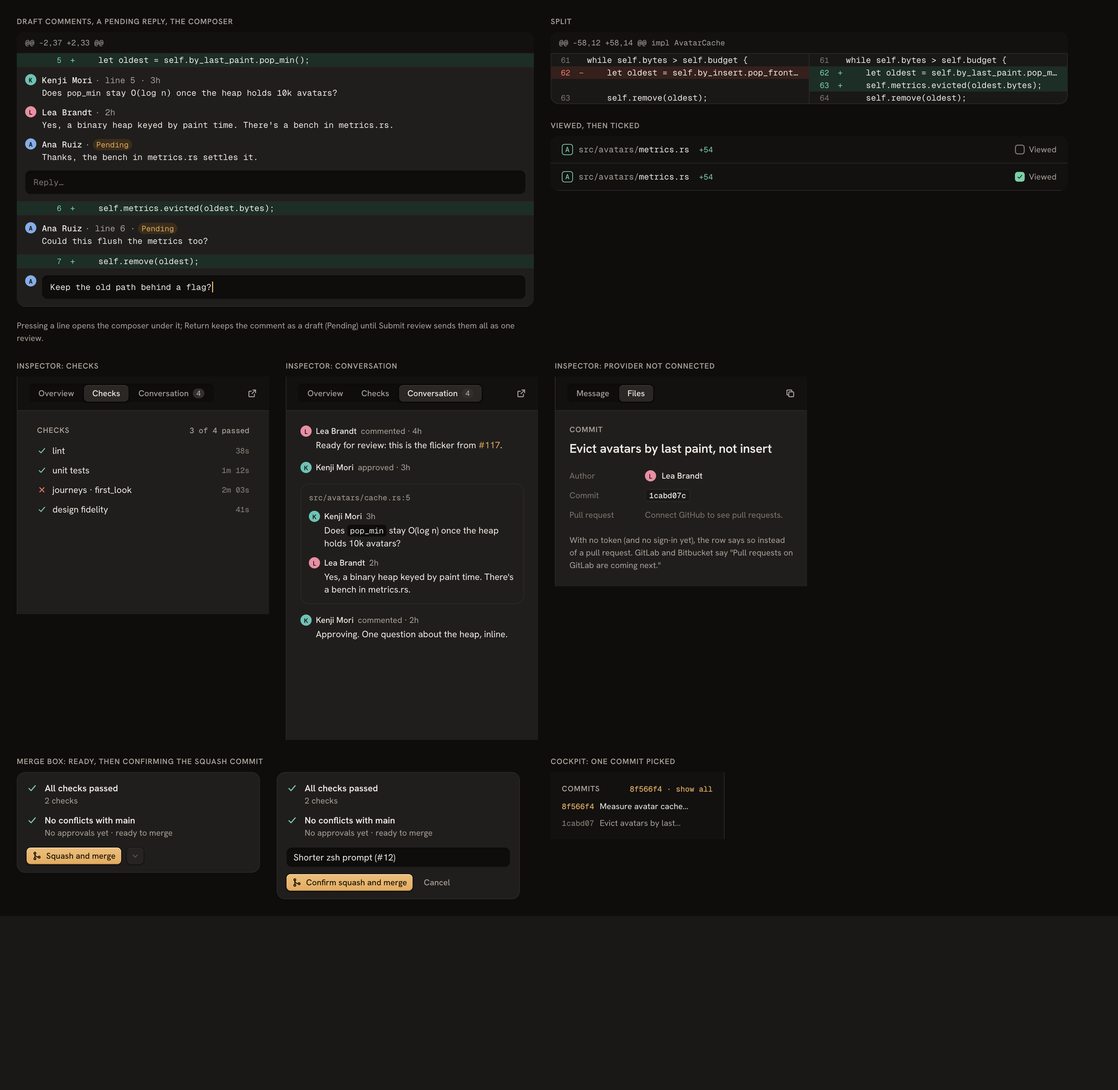
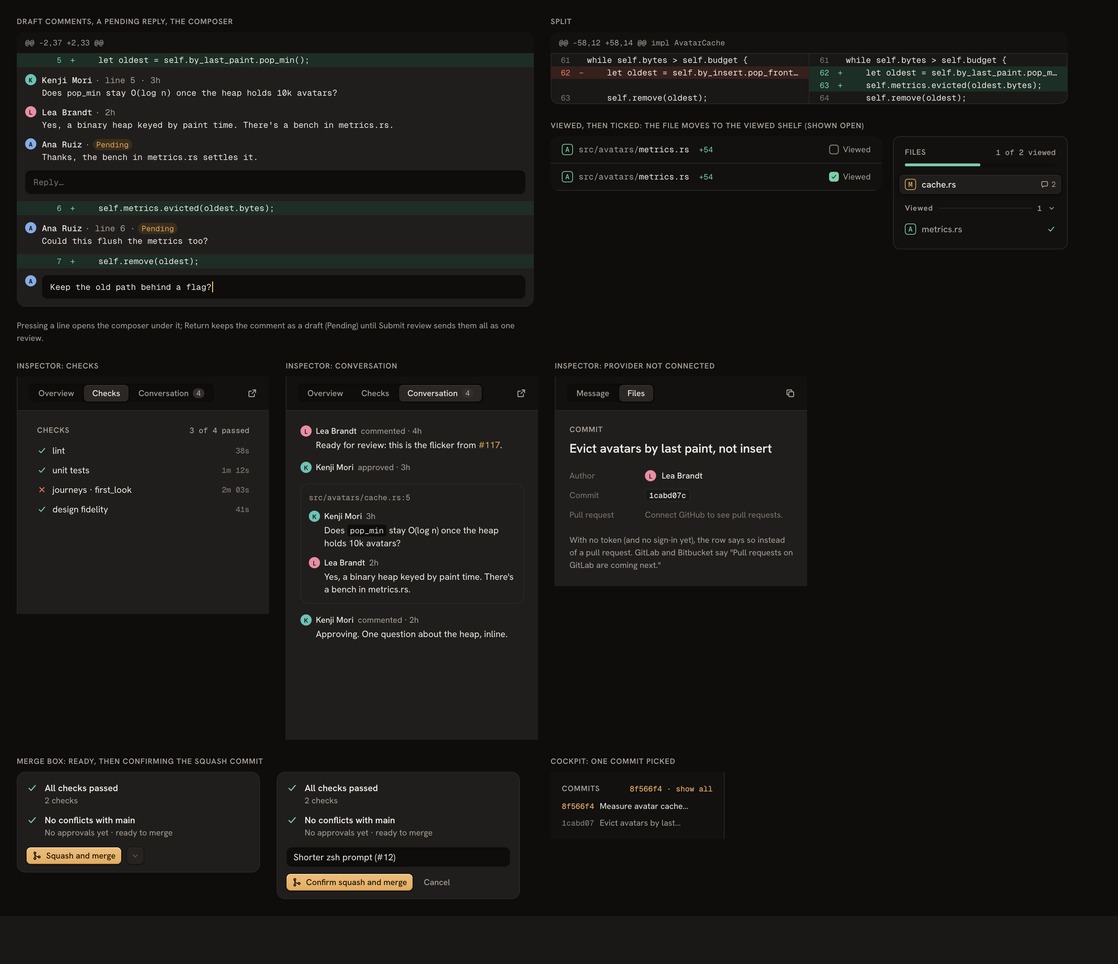
The flow's Viewed state shows the shelf a ticked file goes to

diff --git a/design/pr-flow/extras.html b/design/pr-flow/extras.html
@@ -37,4 +37,4 @@ html,body{margin:0}
 .thread{border-top:1px solid var(--line);padding:10px 12px;background:var(--raised)}
 .note{position:absolute;font-family:var(--font-sans);font-size:12px;line-height:16px;font-weight:600;color:#1c1307;background:#e2ad62;padding:4px 8px;border-radius:6px;box-shadow:0 2px 8px rgba(0,0,0,.4)}
 .dim{opacity:.38}
-</style></head><body><div class="page" data-theme="dark"><div class="row" style="gap:24px;align-items:flex-start;flex-wrap:wrap"><div class="col" style="gap:8px;width:740px"><span class="label">Draft comments, a pending reply, the composer</span><div class="gu-hunk"><div class="gu-hunk-head">@@ -2,37 +2,33 @@</div><div class="gu-hunk-line gu-hunk-add"><span class="gu-hunk-no"></span><span class="gu-hunk-no">5</span><span class="gu-hunk-sign">+</span><span class="gu-hunk-text">    let oldest = self.by_last_paint.pop_min();</span></div><div class="thread" style="margin:0;border-bottom:1px solid var(--line)"><div class="row" style="gap:8px;align-items:flex-start;"><span class="gu-avatar" style="--lane:var(--lane-2);width:16px;height:16px;font-size:9px">K</span><div class="col grow"><span class="row" style="gap:4px;font-size:12px"><b style="font-weight:500">Kenji Mori</b><span class="muted">· line 5 · 3h</span></span><span>Does <code class="mono" style="font-size:11.5px">pop_min</code> stay O(log n) once the heap holds 10k avatars?</span></div></div><div class="row" style="gap:8px;align-items:flex-start;margin-top:10px"><span class="gu-avatar" style="--lane:var(--lane-4);width:16px;height:16px;font-size:9px">L</span><div class="col grow"><span class="row" style="gap:4px;font-size:12px"><b style="font-weight:500">Lea Brandt</b><span class="muted">· 2h</span></span><span>Yes, a binary heap keyed by paint time. There's a bench in metrics.rs.</span></div></div><div class="row" style="gap:8px;align-items:flex-start;margin-top:10px"><span class="gu-avatar" style="--lane:var(--lane-3);width:16px;height:16px;font-size:9px">A</span><div class="col grow"><span class="row" style="gap:4px;font-size:12px"><b style="font-weight:500">Ana Ruiz</b><span class="muted">·</span><span style="font-family:var(--font-mono);font-size:11px;line-height:16px;padding:0 5px;border-radius:999px;background:var(--accent-soft);color:var(--accent)">Pending</span></span><span>Thanks, the bench in metrics.rs settles it.</span></div></div><div class="composer" style="margin-top:10px;min-height:0;padding:8px 12px">Reply…</div></div><div class="gu-hunk-line gu-hunk-add"><span class="gu-hunk-no"></span><span class="gu-hunk-no">6</span><span class="gu-hunk-sign">+</span><span class="gu-hunk-text">    self.metrics.evicted(oldest.bytes);</span></div><div class="thread" style="margin:0;border-bottom:1px solid var(--line)"><div class="row" style="gap:8px;align-items:flex-start;"><span class="gu-avatar" style="--lane:var(--lane-3);width:16px;height:16px;font-size:9px">A</span><div class="col grow"><span class="row" style="gap:4px;font-size:12px"><b style="font-weight:500">Ana Ruiz</b><span class="muted">· line 6 ·</span><span style="font-family:var(--font-mono);font-size:11px;line-height:16px;padding:0 5px;border-radius:999px;background:var(--accent-soft);color:var(--accent)">Pending</span></span><span>Could this flush the metrics too?</span></div></div></div><div class="gu-hunk-line gu-hunk-add"><span class="gu-hunk-no"></span><span class="gu-hunk-no">7</span><span class="gu-hunk-sign">+</span><span class="gu-hunk-text">    self.remove(oldest);</span></div><div class="thread" style="margin:0;border-bottom:1px solid var(--line)"><div class="row" style="gap:8px;align-items:flex-start"><span class="gu-avatar" style="--lane:var(--lane-3);width:16px;height:16px;font-size:9px">A</span><div class="composer grow" style="min-height:0;padding:8px 12px;color:var(--ink)">Keep the old path behind a flag?<span style="border-left:1.5px solid var(--focus);margin-left:1px"></span></div></div></div></div><p class="muted" style="font-size:12px;margin:10px 0 0">Pressing a line opens the composer under it; Return keeps the comment as a draft (Pending) until Submit review sends them all as one review.</p></div><div class="col" style="gap:24px"><div class="col" style="gap:8px;width:740px"><span class="label">Split</span><div class="gu-hunk"><div class="gu-hunk-head">@@ -58,12 +58,14 @@ impl AvatarCache</div><div style="display:flex"><div class="gu-hunk-line" style="grid-template-columns:36px 16px 1fr;flex:1;min-width:0;"><span class="gu-hunk-no">61</span><span class="gu-hunk-sign"> </span><span class="gu-hunk-text">while self.bytes &gt; self.budget {</span></div><div class="gu-hunk-line" style="grid-template-columns:36px 16px 1fr;flex:1;min-width:0;border-left:1px solid var(--line);"><span class="gu-hunk-no">61</span><span class="gu-hunk-sign"> </span><span class="gu-hunk-text">while self.bytes &gt; self.budget {</span></div></div><div style="display:flex"><div class="gu-hunk-line gu-hunk-del" style="grid-template-columns:36px 16px 1fr;flex:1;min-width:0;"><span class="gu-hunk-no">62</span><span class="gu-hunk-sign">−</span><span class="gu-hunk-text">    let oldest = self.by_insert.pop_front();</span></div><div class="gu-hunk-line gu-hunk-add" style="grid-template-columns:36px 16px 1fr;flex:1;min-width:0;border-left:1px solid var(--line);"><span class="gu-hunk-no">62</span><span class="gu-hunk-sign">+</span><span class="gu-hunk-text">    let oldest = self.by_last_paint.pop_min();</span></div></div><div style="display:flex"><div class="gu-hunk-line" style="grid-template-columns:36px 16px 1fr;flex:1;min-width:0;"><span class="gu-hunk-no"></span><span class="gu-hunk-sign"></span><span class="gu-hunk-text"></span></div><div class="gu-hunk-line gu-hunk-add" style="grid-template-columns:36px 16px 1fr;flex:1;min-width:0;border-left:1px solid var(--line);"><span class="gu-hunk-no">63</span><span class="gu-hunk-sign">+</span><span class="gu-hunk-text">    self.metrics.evicted(oldest.bytes);</span></div></div><div style="display:flex"><div class="gu-hunk-line" style="grid-template-columns:36px 16px 1fr;flex:1;min-width:0;"><span class="gu-hunk-no">63</span><span class="gu-hunk-sign"> </span><span class="gu-hunk-text">    self.remove(oldest);</span></div><div class="gu-hunk-line" style="grid-template-columns:36px 16px 1fr;flex:1;min-width:0;border-left:1px solid var(--line);"><span class="gu-hunk-no">64</span><span class="gu-hunk-sign"> </span><span class="gu-hunk-text">    self.remove(oldest);</span></div></div></div></div><div class="col" style="gap:8px;width:740px"><span class="label">Viewed, then ticked</span><div class="cardc" style="overflow:hidden"><div class="row" style="padding:10px 16px;border-bottom:1px solid var(--line);background:var(--chrome)"><span class="gu-status gu-status-A">A</span><span class="mono"><span class="muted">src/avatars/</span>metrics.rs</span><span class="gu-file-stat" style="margin-left:6px"><span class="add">+54</span></span><div class="grow"></div><label class="row muted" style="gap:6px;font-size:12px"><span style="width:14px;height:14px;border-radius:4px;display:grid;place-items:center;box-shadow:inset 0 0 0 1.5px var(--edge)"></span>Viewed</label></div><div class="row" style="padding:10px 16px;border-bottom:1px solid var(--line);background:var(--chrome)"><span class="gu-status gu-status-A">A</span><span class="mono"><span class="muted">src/avatars/</span>metrics.rs</span><span class="gu-file-stat" style="margin-left:6px"><span class="add">+54</span></span><div class="grow"></div><label class="row muted" style="gap:6px;font-size:12px"><span style="width:14px;height:14px;border-radius:4px;display:grid;place-items:center;background:var(--added);color:var(--on-lane)"><svg class="gu-icon" width="10" height="10" viewBox="0 0 16 16" fill="none" stroke="currentColor" stroke-width="1.5" stroke-linecap="round" stroke-linejoin="round" style=""><path d="M3.5 8.5 6.5 11.5 12.5 4.5"/></svg></span>Viewed</label></div></div></div></div><div class="col" style="gap:8px;width:361px"><span class="label">Inspector: Checks</span><aside class="insp" style="height:340px"><div class="bar" style="padding:0 12px 0 16px"><div class="tabs"><span class="tab">Overview</span><span class="tab on">Checks</span><span class="tab">Conversation<span class=count>4</span></span></div><div class="grow"></div><button class="gu-btn gu-btn-ghost gu-btn-sm gu-btn-icononly" ><svg class="gu-icon" width="14" height="14" viewBox="0 0 16 16" fill="none" stroke="currentColor" stroke-width="1.5" stroke-linecap="round" stroke-linejoin="round" style=""><path d="M9 2.5h4.5V7"/><path d="M13.5 2.5 7.5 8.5"/><path d="M11.5 9.5v3a1 1 0 0 1-1 1h-7a1 1 0 0 1-1-1v-7a1 1 0 0 1 1-1h3"/></svg></button></div><div class="col" style="padding:20px"><div class="col" style="gap:2px"><div class="row" style="justify-content:space-between;padding:0 8px 6px"><span class="label">Checks</span><span class="monosm muted">3 of 4 passed</span></div><div class="row" style="height:26px;padding:0 8px"><span class="ok"><svg class="gu-icon" width="14" height="14" viewBox="0 0 16 16" fill="none" stroke="currentColor" stroke-width="1.5" stroke-linecap="round" stroke-linejoin="round" style=""><path d="M3.5 8.5 6.5 11.5 12.5 4.5"/></svg></span><span class="grow">lint</span><span class="monosm faint">38s</span></div><div class="row" style="height:26px;padding:0 8px"><span class="ok"><svg class="gu-icon" width="14" height="14" viewBox="0 0 16 16" fill="none" stroke="currentColor" stroke-width="1.5" stroke-linecap="round" stroke-linejoin="round" style=""><path d="M3.5 8.5 6.5 11.5 12.5 4.5"/></svg></span><span class="grow">unit tests</span><span class="monosm faint">1m 12s</span></div><div class="row" style="height:26px;padding:0 8px"><span class="bad"><svg class="gu-icon" width="14" height="14" viewBox="0 0 16 16" fill="none" stroke="currentColor" stroke-width="1.5" stroke-linecap="round" stroke-linejoin="round" style=""><path d="M4.5 4.5l7 7M11.5 4.5l-7 7"/></svg></span><span class="grow">journeys · first_look</span><span class="monosm faint">2m 03s</span></div><div class="row" style="height:26px;padding:0 8px"><span class="ok"><svg class="gu-icon" width="14" height="14" viewBox="0 0 16 16" fill="none" stroke="currentColor" stroke-width="1.5" stroke-linecap="round" stroke-linejoin="round" style=""><path d="M3.5 8.5 6.5 11.5 12.5 4.5"/></svg></span><span class="grow">design fidelity</span><span class="monosm faint">41s</span></div></div></div></aside></div><div class="col" style="gap:8px;width:361px"><span class="label">Inspector: Conversation</span><aside class="insp" style="height:520px"><div class="bar" style="padding:0 12px 0 16px"><div class="tabs"><span class="tab">Overview</span><span class="tab">Checks</span><span class="tab on">Conversation<span class=count>4</span></span></div><div class="grow"></div><button class="gu-btn gu-btn-ghost gu-btn-sm gu-btn-icononly" ><svg class="gu-icon" width="14" height="14" viewBox="0 0 16 16" fill="none" stroke="currentColor" stroke-width="1.5" stroke-linecap="round" stroke-linejoin="round" style=""><path d="M9 2.5h4.5V7"/><path d="M13.5 2.5 7.5 8.5"/><path d="M11.5 9.5v3a1 1 0 0 1-1 1h-7a1 1 0 0 1-1-1v-7a1 1 0 0 1 1-1h3"/></svg></button></div><div class="col" style="padding:20px;gap:14px"><div class="col" style="gap:2px"><div class="row" style="gap:6px;font-size:12px"><span class="gu-avatar" style="--lane:var(--lane-4);width:16px;height:16px;font-size:9px">L</span><span style="font-weight:500">Lea Brandt</span><span class="muted">commented · 4h</span></div><div style="padding-left:22px">Ready for review: this is the flicker from <span style="color:var(--accent)">#117</span>.</div></div><div class="col" style="gap:2px"><div class="row" style="gap:6px;font-size:12px"><span class="gu-avatar" style="--lane:var(--lane-2);width:16px;height:16px;font-size:9px">K</span><span style="font-weight:500">Kenji Mori</span><span class="muted">approved · 3h</span></div></div><div class="card col" style="padding:12px;gap:10px"><span class="monosm muted" style="font-weight:400">src/avatars/cache.rs:5</span><div class="col" style="gap:2px"><div class="row" style="gap:6px;font-size:12px"><span class="gu-avatar" style="--lane:var(--lane-2);width:16px;height:16px;font-size:9px">K</span><span style="font-weight:500">Kenji Mori</span><span class="muted">3h</span></div><div style="padding-left:22px">Does <code class="mono" style="font-size:11.5px;background:var(--well);padding:1px 4px;border-radius:4px">pop_min</code> stay O(log n) once the heap holds 10k avatars?</div></div><div class="col" style="gap:2px"><div class="row" style="gap:6px;font-size:12px"><span class="gu-avatar" style="--lane:var(--lane-4);width:16px;height:16px;font-size:9px">L</span><span style="font-weight:500">Lea Brandt</span><span class="muted">2h</span></div><div style="padding-left:22px">Yes, a binary heap keyed by paint time. There's a bench in metrics.rs.</div></div></div><div class="col" style="gap:2px"><div class="row" style="gap:6px;font-size:12px"><span class="gu-avatar" style="--lane:var(--lane-2);width:16px;height:16px;font-size:9px">K</span><span style="font-weight:500">Kenji Mori</span><span class="muted">commented · 2h</span></div><div style="padding-left:22px">Approving. One question about the heap, inline.</div></div></div></aside></div><div class="col" style="gap:8px;width:361px"><span class="label">Inspector: provider not connected</span><aside class="insp" style="height:300px"><div class="bar" style="padding:0 12px 0 16px"><div class="tabs"><span class="tab">Message</span><span class="tab on">Files</span></div><div class="grow"></div><button class="gu-btn gu-btn-ghost gu-btn-sm gu-btn-icononly" ><svg class="gu-icon" width="14" height="14" viewBox="0 0 16 16" fill="none" stroke="currentColor" stroke-width="1.5" stroke-linecap="round" stroke-linejoin="round" style=""><rect x="5.5" y="5.5" width="8" height="8" rx="1.5"/><path d="M10.5 5.5v-2a1 1 0 0 0-1-1h-6a1 1 0 0 0-1 1v6a1 1 0 0 0 1 1h2"/></svg></button></div><div class="col" style="padding:20px;gap:18px"><div class="col" style="gap:8px"><span class="label">Commit</span><span class="title">Evict avatars by last paint, not insert</span></div><div class="kv"><span class="k">Author</span><span class="row" style="gap:8px"><span class="gu-avatar" style="--lane:var(--lane-4);width:16px;height:16px;font-size:9px">L</span><span style="font-weight:500">Lea Brandt</span></span><span class="k">Commit</span><span class="row"><span class="chip">1cabd07c</span></span><span class="k">Pull request</span><span class="faint" style="white-space:nowrap;overflow:hidden;text-overflow:ellipsis">Connect GitHub to see pull requests.</span></div><p class="muted" style="margin:0;font-size:12px">With no token (and no sign-in yet), the row says so instead of a pull request. GitLab and Bitbucket say "Pull requests on GitLab are coming next."</p></div></aside></div><div class="col" style="gap:8px;width:740px"><span class="label">Merge box: ready, then confirming the squash commit</span><div class="row" style="gap:24px;align-items:flex-start"><div class="card" style="padding:14px 14px 12px;width:320px"><div class="row" style="gap:10px;align-items:flex-start"><span class="ok" style="margin-top:1px"><svg class="gu-icon" width="16" height="16" viewBox="0 0 16 16" fill="none" stroke="currentColor" stroke-width="1.5" stroke-linecap="round" stroke-linejoin="round" style=""><path d="M3.5 8.5 6.5 11.5 12.5 4.5"/></svg></span><div class="col grow"><span style="font-weight:600">All checks passed</span><span class="muted" style="font-size:12px">2 checks</span></div></div><div class="row" style="gap:10px;align-items:flex-start;margin-top:10px"><span class="ok" style="margin-top:1px"><svg class="gu-icon" width="16" height="16" viewBox="0 0 16 16" fill="none" stroke="currentColor" stroke-width="1.5" stroke-linecap="round" stroke-linejoin="round" style=""><path d="M3.5 8.5 6.5 11.5 12.5 4.5"/></svg></span><div class="col grow"><span style="font-weight:600">No conflicts with main</span><span class="muted" style="font-size:12px">No approvals yet · ready to merge</span></div></div><div class="row" style="margin-top:12px"><button class="gu-btn gu-btn-primary gu-btn-sm" ><svg class="gu-icon" width="14" height="14" viewBox="0 0 16 16" fill="none" stroke="currentColor" stroke-width="1.5" stroke-linecap="round" stroke-linejoin="round" style=""><circle cx="4.5" cy="3.5" r="1.5"/><circle cx="4.5" cy="12.5" r="1.5"/><circle cx="11.5" cy="10" r="1.5"/><path d="M4.5 5v6"/><path d="M4.5 5c0 3 3 5 5.5 5"/></svg><span>Squash and merge</span></button><button class="gu-btn gu-btn-secondary gu-btn-sm gu-btn-icononly" disabled><svg class="gu-icon" width="14" height="14" viewBox="0 0 16 16" fill="none" stroke="currentColor" stroke-width="1.5" stroke-linecap="round" stroke-linejoin="round" style=""><path d="M4.5 6.5 8 10l3.5-3.5"/></svg></button></div></div><div class="card" style="padding:14px 14px 12px;width:320px"><div class="row" style="gap:10px;align-items:flex-start"><span class="ok" style="margin-top:1px"><svg class="gu-icon" width="16" height="16" viewBox="0 0 16 16" fill="none" stroke="currentColor" stroke-width="1.5" stroke-linecap="round" stroke-linejoin="round" style=""><path d="M3.5 8.5 6.5 11.5 12.5 4.5"/></svg></span><div class="col grow"><span style="font-weight:600">All checks passed</span><span class="muted" style="font-size:12px">2 checks</span></div></div><div class="row" style="gap:10px;align-items:flex-start;margin-top:10px"><span class="ok" style="margin-top:1px"><svg class="gu-icon" width="16" height="16" viewBox="0 0 16 16" fill="none" stroke="currentColor" stroke-width="1.5" stroke-linecap="round" stroke-linejoin="round" style=""><path d="M3.5 8.5 6.5 11.5 12.5 4.5"/></svg></span><div class="col grow"><span style="font-weight:600">No conflicts with main</span><span class="muted" style="font-size:12px">No approvals yet · ready to merge</span></div></div><div class="composer" style="margin-top:12px;min-height:0;padding:5px 10px;color:var(--ink)">Shorter zsh prompt (#12)</div><div class="row" style="margin-top:10px"><button class="gu-btn gu-btn-primary gu-btn-sm" ><svg class="gu-icon" width="14" height="14" viewBox="0 0 16 16" fill="none" stroke="currentColor" stroke-width="1.5" stroke-linecap="round" stroke-linejoin="round" style=""><circle cx="4.5" cy="3.5" r="1.5"/><circle cx="4.5" cy="12.5" r="1.5"/><circle cx="11.5" cy="10" r="1.5"/><path d="M4.5 5v6"/><path d="M4.5 5c0 3 3 5 5.5 5"/></svg><span>Confirm squash and merge</span></button><button class="gu-btn gu-btn-ghost gu-btn-sm" ><span>Cancel</span></button></div></div></div></div><div class="col" style="gap:8px;width:248px"><span class="label">Cockpit: one commit picked</span><aside class="side" style="height:auto;padding-bottom:14px"><div class="row" style="padding:16px 16px 8px;justify-content:space-between"><span class="label">Commits</span><span class="monosm" style="color:var(--accent)">8f566f4 · show all</span></div><div class="col" style="padding:0 16px;gap:6px;font-size:12px"><div class="row"><span class="monosm" style="color:var(--accent)">8f566f4</span><span>Measure avatar cache…</span></div><div class="row"><span class="monosm faint">1cabd07</span><span class="muted">Evict avatars by last…</span></div></div></aside></div></div></div></body></html>
+</style></head><body><div class="page" data-theme="dark"><div class="row" style="gap:24px;align-items:flex-start;flex-wrap:wrap"><div class="col" style="gap:8px;width:740px"><span class="label">Draft comments, a pending reply, the composer</span><div class="gu-hunk"><div class="gu-hunk-head">@@ -2,37 +2,33 @@</div><div class="gu-hunk-line gu-hunk-add"><span class="gu-hunk-no"></span><span class="gu-hunk-no">5</span><span class="gu-hunk-sign">+</span><span class="gu-hunk-text">    let oldest = self.by_last_paint.pop_min();</span></div><div class="thread" style="margin:0;border-bottom:1px solid var(--line)"><div class="row" style="gap:8px;align-items:flex-start;"><span class="gu-avatar" style="--lane:var(--lane-2);width:16px;height:16px;font-size:9px">K</span><div class="col grow"><span class="row" style="gap:4px;font-size:12px"><b style="font-weight:500">Kenji Mori</b><span class="muted">· line 5 · 3h</span></span><span>Does <code class="mono" style="font-size:11.5px">pop_min</code> stay O(log n) once the heap holds 10k avatars?</span></div></div><div class="row" style="gap:8px;align-items:flex-start;margin-top:10px"><span class="gu-avatar" style="--lane:var(--lane-4);width:16px;height:16px;font-size:9px">L</span><div class="col grow"><span class="row" style="gap:4px;font-size:12px"><b style="font-weight:500">Lea Brandt</b><span class="muted">· 2h</span></span><span>Yes, a binary heap keyed by paint time. There's a bench in metrics.rs.</span></div></div><div class="row" style="gap:8px;align-items:flex-start;margin-top:10px"><span class="gu-avatar" style="--lane:var(--lane-3);width:16px;height:16px;font-size:9px">A</span><div class="col grow"><span class="row" style="gap:4px;font-size:12px"><b style="font-weight:500">Ana Ruiz</b><span class="muted">·</span><span style="font-family:var(--font-mono);font-size:11px;line-height:16px;padding:0 5px;border-radius:999px;background:var(--accent-soft);color:var(--accent)">Pending</span></span><span>Thanks, the bench in metrics.rs settles it.</span></div></div><div class="composer" style="margin-top:10px;min-height:0;padding:8px 12px">Reply…</div></div><div class="gu-hunk-line gu-hunk-add"><span class="gu-hunk-no"></span><span class="gu-hunk-no">6</span><span class="gu-hunk-sign">+</span><span class="gu-hunk-text">    self.metrics.evicted(oldest.bytes);</span></div><div class="thread" style="margin:0;border-bottom:1px solid var(--line)"><div class="row" style="gap:8px;align-items:flex-start;"><span class="gu-avatar" style="--lane:var(--lane-3);width:16px;height:16px;font-size:9px">A</span><div class="col grow"><span class="row" style="gap:4px;font-size:12px"><b style="font-weight:500">Ana Ruiz</b><span class="muted">· line 6 ·</span><span style="font-family:var(--font-mono);font-size:11px;line-height:16px;padding:0 5px;border-radius:999px;background:var(--accent-soft);color:var(--accent)">Pending</span></span><span>Could this flush the metrics too?</span></div></div></div><div class="gu-hunk-line gu-hunk-add"><span class="gu-hunk-no"></span><span class="gu-hunk-no">7</span><span class="gu-hunk-sign">+</span><span class="gu-hunk-text">    self.remove(oldest);</span></div><div class="thread" style="margin:0;border-bottom:1px solid var(--line)"><div class="row" style="gap:8px;align-items:flex-start"><span class="gu-avatar" style="--lane:var(--lane-3);width:16px;height:16px;font-size:9px">A</span><div class="composer grow" style="min-height:0;padding:8px 12px;color:var(--ink)">Keep the old path behind a flag?<span style="border-left:1.5px solid var(--focus);margin-left:1px"></span></div></div></div></div><p class="muted" style="font-size:12px;margin:10px 0 0">Pressing a line opens the composer under it; Return keeps the comment as a draft (Pending) until Submit review sends them all as one review.</p></div><div class="col" style="gap:24px"><div class="col" style="gap:8px;width:740px"><span class="label">Split</span><div class="gu-hunk"><div class="gu-hunk-head">@@ -58,12 +58,14 @@ impl AvatarCache</div><div style="display:flex"><div class="gu-hunk-line" style="grid-template-columns:36px 16px 1fr;flex:1;min-width:0;"><span class="gu-hunk-no">61</span><span class="gu-hunk-sign"> </span><span class="gu-hunk-text">while self.bytes &gt; self.budget {</span></div><div class="gu-hunk-line" style="grid-template-columns:36px 16px 1fr;flex:1;min-width:0;border-left:1px solid var(--line);"><span class="gu-hunk-no">61</span><span class="gu-hunk-sign"> </span><span class="gu-hunk-text">while self.bytes &gt; self.budget {</span></div></div><div style="display:flex"><div class="gu-hunk-line gu-hunk-del" style="grid-template-columns:36px 16px 1fr;flex:1;min-width:0;"><span class="gu-hunk-no">62</span><span class="gu-hunk-sign">−</span><span class="gu-hunk-text">    let oldest = self.by_insert.pop_front();</span></div><div class="gu-hunk-line gu-hunk-add" style="grid-template-columns:36px 16px 1fr;flex:1;min-width:0;border-left:1px solid var(--line);"><span class="gu-hunk-no">62</span><span class="gu-hunk-sign">+</span><span class="gu-hunk-text">    let oldest = self.by_last_paint.pop_min();</span></div></div><div style="display:flex"><div class="gu-hunk-line" style="grid-template-columns:36px 16px 1fr;flex:1;min-width:0;"><span class="gu-hunk-no"></span><span class="gu-hunk-sign"></span><span class="gu-hunk-text"></span></div><div class="gu-hunk-line gu-hunk-add" style="grid-template-columns:36px 16px 1fr;flex:1;min-width:0;border-left:1px solid var(--line);"><span class="gu-hunk-no">63</span><span class="gu-hunk-sign">+</span><span class="gu-hunk-text">    self.metrics.evicted(oldest.bytes);</span></div></div><div style="display:flex"><div class="gu-hunk-line" style="grid-template-columns:36px 16px 1fr;flex:1;min-width:0;"><span class="gu-hunk-no">63</span><span class="gu-hunk-sign"> </span><span class="gu-hunk-text">    self.remove(oldest);</span></div><div class="gu-hunk-line" style="grid-template-columns:36px 16px 1fr;flex:1;min-width:0;border-left:1px solid var(--line);"><span class="gu-hunk-no">64</span><span class="gu-hunk-sign"> </span><span class="gu-hunk-text">    self.remove(oldest);</span></div></div></div></div><div class="col" style="gap:8px;width:740px"><span class="label">Viewed, then ticked: the file moves to the Viewed shelf (shown open)</span><div class="row" style="gap:16px;align-items:flex-start"><div class="cardc grow" style="overflow:hidden"><div class="row" style="padding:10px 16px;border-bottom:1px solid var(--line);background:var(--chrome)"><span class="gu-status gu-status-A">A</span><span class="mono"><span class="muted">src/avatars/</span>metrics.rs</span><span class="gu-file-stat" style="margin-left:6px"><span class="add">+54</span></span><div class="grow"></div><label class="row muted" style="gap:6px;font-size:12px"><span style="width:14px;height:14px;border-radius:4px;display:grid;place-items:center;box-shadow:inset 0 0 0 1.5px var(--edge)"></span>Viewed</label></div><div class="row" style="padding:10px 16px;border-bottom:1px solid var(--line);background:var(--chrome)"><span class="gu-status gu-status-A">A</span><span class="mono"><span class="muted">src/avatars/</span>metrics.rs</span><span class="gu-file-stat" style="margin-left:6px"><span class="add">+54</span></span><div class="grow"></div><label class="row muted" style="gap:6px;font-size:12px"><span style="width:14px;height:14px;border-radius:4px;display:grid;place-items:center;background:var(--added);color:var(--on-lane)"><svg class="gu-icon" width="10" height="10" viewBox="0 0 16 16" fill="none" stroke="currentColor" stroke-width="1.5" stroke-linecap="round" stroke-linejoin="round" style=""><path d="M3.5 8.5 6.5 11.5 12.5 4.5"/></svg></span>Viewed</label></div></div><aside class="side" style="height:auto;width:248px;padding:14px 0;border:1px solid var(--line);border-radius:10px"><div class="row" style="padding:0 16px 8px;justify-content:space-between"><span class="label">Files</span><span class="monosm muted">1 of 2 viewed</span></div><div style="padding:0 16px 12px"><div style="height:4px;border-radius:2px;background:var(--well)"><div style="width:50%;height:4px;border-radius:2px;background:var(--added)"></div></div></div><div class="col" style="padding:0 8px"><div class="gu-file" aria-selected="true"><span class="gu-status gu-status-M">M</span><span class="gu-file-path"><span class="gu-file-name">cache.rs</span></span><span class="row muted" style="gap:4px;font-size:11px"><svg class="gu-icon" width="12" height="12" viewBox="0 0 16 16" fill="none" stroke="currentColor" stroke-width="1.5" stroke-linecap="round" stroke-linejoin="round" style=""><path d="M2.5 4a1.5 1.5 0 0 1 1.5-1.5h8A1.5 1.5 0 0 1 13.5 4v5.5A1.5 1.5 0 0 1 12 11H7l-3 2.5V11a1.5 1.5 0 0 1-1.5-1.5z"/></svg>2</span></div></div><div class="row muted" style="margin:4px 8px 0;height:32px;padding:0 8px;gap:8px;border-radius:6px"><span style="font-size:11px;font-weight:600;letter-spacing:.06em">Viewed</span><span style="flex:1;height:1px;background:var(--line)"></span><span class="monosm">1</span><svg class="gu-icon" width="12" height="12" viewBox="0 0 16 16" fill="none" stroke="currentColor" stroke-width="1.5" stroke-linecap="round" stroke-linejoin="round" style=""><path d="M4.5 6.5 8 10l3.5-3.5"/></svg></div><div class="col" style="padding:0 8px"><div class="gu-file" aria-selected="false"><span class="gu-status gu-status-A">A</span><span class="gu-file-path"><span class="gu-file-name" style="color:var(--ink-muted)">metrics.rs</span></span><span class="ok"><svg class="gu-icon" width="13" height="13" viewBox="0 0 16 16" fill="none" stroke="currentColor" stroke-width="1.5" stroke-linecap="round" stroke-linejoin="round" style=""><path d="M3.5 8.5 6.5 11.5 12.5 4.5"/></svg></span></div></div></aside></div></div></div><div class="col" style="gap:8px;width:361px"><span class="label">Inspector: Checks</span><aside class="insp" style="height:340px"><div class="bar" style="padding:0 12px 0 16px"><div class="tabs"><span class="tab">Overview</span><span class="tab on">Checks</span><span class="tab">Conversation<span class=count>4</span></span></div><div class="grow"></div><button class="gu-btn gu-btn-ghost gu-btn-sm gu-btn-icononly" ><svg class="gu-icon" width="14" height="14" viewBox="0 0 16 16" fill="none" stroke="currentColor" stroke-width="1.5" stroke-linecap="round" stroke-linejoin="round" style=""><path d="M9 2.5h4.5V7"/><path d="M13.5 2.5 7.5 8.5"/><path d="M11.5 9.5v3a1 1 0 0 1-1 1h-7a1 1 0 0 1-1-1v-7a1 1 0 0 1 1-1h3"/></svg></button></div><div class="col" style="padding:20px"><div class="col" style="gap:2px"><div class="row" style="justify-content:space-between;padding:0 8px 6px"><span class="label">Checks</span><span class="monosm muted">3 of 4 passed</span></div><div class="row" style="height:26px;padding:0 8px"><span class="ok"><svg class="gu-icon" width="14" height="14" viewBox="0 0 16 16" fill="none" stroke="currentColor" stroke-width="1.5" stroke-linecap="round" stroke-linejoin="round" style=""><path d="M3.5 8.5 6.5 11.5 12.5 4.5"/></svg></span><span class="grow">lint</span><span class="monosm faint">38s</span></div><div class="row" style="height:26px;padding:0 8px"><span class="ok"><svg class="gu-icon" width="14" height="14" viewBox="0 0 16 16" fill="none" stroke="currentColor" stroke-width="1.5" stroke-linecap="round" stroke-linejoin="round" style=""><path d="M3.5 8.5 6.5 11.5 12.5 4.5"/></svg></span><span class="grow">unit tests</span><span class="monosm faint">1m 12s</span></div><div class="row" style="height:26px;padding:0 8px"><span class="bad"><svg class="gu-icon" width="14" height="14" viewBox="0 0 16 16" fill="none" stroke="currentColor" stroke-width="1.5" stroke-linecap="round" stroke-linejoin="round" style=""><path d="M4.5 4.5l7 7M11.5 4.5l-7 7"/></svg></span><span class="grow">journeys · first_look</span><span class="monosm faint">2m 03s</span></div><div class="row" style="height:26px;padding:0 8px"><span class="ok"><svg class="gu-icon" width="14" height="14" viewBox="0 0 16 16" fill="none" stroke="currentColor" stroke-width="1.5" stroke-linecap="round" stroke-linejoin="round" style=""><path d="M3.5 8.5 6.5 11.5 12.5 4.5"/></svg></span><span class="grow">design fidelity</span><span class="monosm faint">41s</span></div></div></div></aside></div><div class="col" style="gap:8px;width:361px"><span class="label">Inspector: Conversation</span><aside class="insp" style="height:520px"><div class="bar" style="padding:0 12px 0 16px"><div class="tabs"><span class="tab">Overview</span><span class="tab">Checks</span><span class="tab on">Conversation<span class=count>4</span></span></div><div class="grow"></div><button class="gu-btn gu-btn-ghost gu-btn-sm gu-btn-icononly" ><svg class="gu-icon" width="14" height="14" viewBox="0 0 16 16" fill="none" stroke="currentColor" stroke-width="1.5" stroke-linecap="round" stroke-linejoin="round" style=""><path d="M9 2.5h4.5V7"/><path d="M13.5 2.5 7.5 8.5"/><path d="M11.5 9.5v3a1 1 0 0 1-1 1h-7a1 1 0 0 1-1-1v-7a1 1 0 0 1 1-1h3"/></svg></button></div><div class="col" style="padding:20px;gap:14px"><div class="col" style="gap:2px"><div class="row" style="gap:6px;font-size:12px"><span class="gu-avatar" style="--lane:var(--lane-4);width:16px;height:16px;font-size:9px">L</span><span style="font-weight:500">Lea Brandt</span><span class="muted">commented · 4h</span></div><div style="padding-left:22px">Ready for review: this is the flicker from <span style="color:var(--accent)">#117</span>.</div></div><div class="col" style="gap:2px"><div class="row" style="gap:6px;font-size:12px"><span class="gu-avatar" style="--lane:var(--lane-2);width:16px;height:16px;font-size:9px">K</span><span style="font-weight:500">Kenji Mori</span><span class="muted">approved · 3h</span></div></div><div class="card col" style="padding:12px;gap:10px"><span class="monosm muted" style="font-weight:400">src/avatars/cache.rs:5</span><div class="col" style="gap:2px"><div class="row" style="gap:6px;font-size:12px"><span class="gu-avatar" style="--lane:var(--lane-2);width:16px;height:16px;font-size:9px">K</span><span style="font-weight:500">Kenji Mori</span><span class="muted">3h</span></div><div style="padding-left:22px">Does <code class="mono" style="font-size:11.5px;background:var(--well);padding:1px 4px;border-radius:4px">pop_min</code> stay O(log n) once the heap holds 10k avatars?</div></div><div class="col" style="gap:2px"><div class="row" style="gap:6px;font-size:12px"><span class="gu-avatar" style="--lane:var(--lane-4);width:16px;height:16px;font-size:9px">L</span><span style="font-weight:500">Lea Brandt</span><span class="muted">2h</span></div><div style="padding-left:22px">Yes, a binary heap keyed by paint time. There's a bench in metrics.rs.</div></div></div><div class="col" style="gap:2px"><div class="row" style="gap:6px;font-size:12px"><span class="gu-avatar" style="--lane:var(--lane-2);width:16px;height:16px;font-size:9px">K</span><span style="font-weight:500">Kenji Mori</span><span class="muted">commented · 2h</span></div><div style="padding-left:22px">Approving. One question about the heap, inline.</div></div></div></aside></div><div class="col" style="gap:8px;width:361px"><span class="label">Inspector: provider not connected</span><aside class="insp" style="height:300px"><div class="bar" style="padding:0 12px 0 16px"><div class="tabs"><span class="tab">Message</span><span class="tab on">Files</span></div><div class="grow"></div><button class="gu-btn gu-btn-ghost gu-btn-sm gu-btn-icononly" ><svg class="gu-icon" width="14" height="14" viewBox="0 0 16 16" fill="none" stroke="currentColor" stroke-width="1.5" stroke-linecap="round" stroke-linejoin="round" style=""><rect x="5.5" y="5.5" width="8" height="8" rx="1.5"/><path d="M10.5 5.5v-2a1 1 0 0 0-1-1h-6a1 1 0 0 0-1 1v6a1 1 0 0 0 1 1h2"/></svg></button></div><div class="col" style="padding:20px;gap:18px"><div class="col" style="gap:8px"><span class="label">Commit</span><span class="title">Evict avatars by last paint, not insert</span></div><div class="kv"><span class="k">Author</span><span class="row" style="gap:8px"><span class="gu-avatar" style="--lane:var(--lane-4);width:16px;height:16px;font-size:9px">L</span><span style="font-weight:500">Lea Brandt</span></span><span class="k">Commit</span><span class="row"><span class="chip">1cabd07c</span></span><span class="k">Pull request</span><span class="faint" style="white-space:nowrap;overflow:hidden;text-overflow:ellipsis">Connect GitHub to see pull requests.</span></div><p class="muted" style="margin:0;font-size:12px">With no token (and no sign-in yet), the row says so instead of a pull request. GitLab and Bitbucket say "Pull requests on GitLab are coming next."</p></div></aside></div><div class="col" style="gap:8px;width:740px"><span class="label">Merge box: ready, then confirming the squash commit</span><div class="row" style="gap:24px;align-items:flex-start"><div class="card" style="padding:14px 14px 12px;width:320px"><div class="row" style="gap:10px;align-items:flex-start"><span class="ok" style="margin-top:1px"><svg class="gu-icon" width="16" height="16" viewBox="0 0 16 16" fill="none" stroke="currentColor" stroke-width="1.5" stroke-linecap="round" stroke-linejoin="round" style=""><path d="M3.5 8.5 6.5 11.5 12.5 4.5"/></svg></span><div class="col grow"><span style="font-weight:600">All checks passed</span><span class="muted" style="font-size:12px">2 checks</span></div></div><div class="row" style="gap:10px;align-items:flex-start;margin-top:10px"><span class="ok" style="margin-top:1px"><svg class="gu-icon" width="16" height="16" viewBox="0 0 16 16" fill="none" stroke="currentColor" stroke-width="1.5" stroke-linecap="round" stroke-linejoin="round" style=""><path d="M3.5 8.5 6.5 11.5 12.5 4.5"/></svg></span><div class="col grow"><span style="font-weight:600">No conflicts with main</span><span class="muted" style="font-size:12px">No approvals yet · ready to merge</span></div></div><div class="row" style="margin-top:12px"><button class="gu-btn gu-btn-primary gu-btn-sm" ><svg class="gu-icon" width="14" height="14" viewBox="0 0 16 16" fill="none" stroke="currentColor" stroke-width="1.5" stroke-linecap="round" stroke-linejoin="round" style=""><circle cx="4.5" cy="3.5" r="1.5"/><circle cx="4.5" cy="12.5" r="1.5"/><circle cx="11.5" cy="10" r="1.5"/><path d="M4.5 5v6"/><path d="M4.5 5c0 3 3 5 5.5 5"/></svg><span>Squash and merge</span></button><button class="gu-btn gu-btn-secondary gu-btn-sm gu-btn-icononly" disabled><svg class="gu-icon" width="14" height="14" viewBox="0 0 16 16" fill="none" stroke="currentColor" stroke-width="1.5" stroke-linecap="round" stroke-linejoin="round" style=""><path d="M4.5 6.5 8 10l3.5-3.5"/></svg></button></div></div><div class="card" style="padding:14px 14px 12px;width:320px"><div class="row" style="gap:10px;align-items:flex-start"><span class="ok" style="margin-top:1px"><svg class="gu-icon" width="16" height="16" viewBox="0 0 16 16" fill="none" stroke="currentColor" stroke-width="1.5" stroke-linecap="round" stroke-linejoin="round" style=""><path d="M3.5 8.5 6.5 11.5 12.5 4.5"/></svg></span><div class="col grow"><span style="font-weight:600">All checks passed</span><span class="muted" style="font-size:12px">2 checks</span></div></div><div class="row" style="gap:10px;align-items:flex-start;margin-top:10px"><span class="ok" style="margin-top:1px"><svg class="gu-icon" width="16" height="16" viewBox="0 0 16 16" fill="none" stroke="currentColor" stroke-width="1.5" stroke-linecap="round" stroke-linejoin="round" style=""><path d="M3.5 8.5 6.5 11.5 12.5 4.5"/></svg></span><div class="col grow"><span style="font-weight:600">No conflicts with main</span><span class="muted" style="font-size:12px">No approvals yet · ready to merge</span></div></div><div class="composer" style="margin-top:12px;min-height:0;padding:5px 10px;color:var(--ink)">Shorter zsh prompt (#12)</div><div class="row" style="margin-top:10px"><button class="gu-btn gu-btn-primary gu-btn-sm" ><svg class="gu-icon" width="14" height="14" viewBox="0 0 16 16" fill="none" stroke="currentColor" stroke-width="1.5" stroke-linecap="round" stroke-linejoin="round" style=""><circle cx="4.5" cy="3.5" r="1.5"/><circle cx="4.5" cy="12.5" r="1.5"/><circle cx="11.5" cy="10" r="1.5"/><path d="M4.5 5v6"/><path d="M4.5 5c0 3 3 5 5.5 5"/></svg><span>Confirm squash and merge</span></button><button class="gu-btn gu-btn-ghost gu-btn-sm" ><span>Cancel</span></button></div></div></div></div><div class="col" style="gap:8px;width:248px"><span class="label">Cockpit: one commit picked</span><aside class="side" style="height:auto;padding-bottom:14px"><div class="row" style="padding:16px 16px 8px;justify-content:space-between"><span class="label">Commits</span><span class="monosm" style="color:var(--accent)">8f566f4 · show all</span></div><div class="col" style="padding:0 16px;gap:6px;font-size:12px"><div class="row"><span class="monosm" style="color:var(--accent)">8f566f4</span><span>Measure avatar cache…</span></div><div class="row"><span class="monosm faint">1cabd07</span><span class="muted">Evict avatars by last…</span></div></div></aside></div></div></div></body></html>

diff --git a/design/pr-flow/extras.py b/design/pr-flow/extras.py
@@ -1,5 +1,5 @@
 """States the C + B flow needs that its frames don't draw, in the same parts: drafts in the
-review cockpit, Split, Viewed ticked, the inspector's Checks and Conversation tabs, and a
+review cockpit, Split, Viewed ticked (and the shelf it goes to), the inspector's Checks and Conversation tabs, and a
 repository whose provider isn't connected. Proposed 2026-11-14 with the first build; they need
 the person's sign-off. Run `python3 extras.py` here."""
 from pages import *
@@ -49,7 +49,20 @@ def viewed_panel():
     head = lambda on: (f'<div class="row" style="padding:10px 16px;border-bottom:1px solid var(--line);background:var(--chrome)"><span class="gu-status gu-status-A">A</span>'
                        f'<span class="mono"><span class="muted">src/avatars/</span>metrics.rs</span><span class="gu-file-stat" style="margin-left:6px"><span class="add">+54</span></span>'
                        f'<div class="grow"></div><label class="row muted" style="gap:6px;font-size:12px">{box(on)}Viewed</label></div>')
-    return f'<div class="cardc" style="overflow:hidden">{head(False)}{head(True)}</div>'
+    file = lambda st, name, side, sel=False, muted=False: (
+        f'<div class="gu-file" aria-selected="{str(sel).lower()}"><span class="gu-status gu-status-{st}">{st}</span>'
+        f'<span class="gu-file-path"><span class="gu-file-name"{" style=\"color:var(--ink-muted)\"" if muted else ""}>{name}</span></span>{side}</div>')
+    # Ticked, the file leaves the list for the Viewed shelf beneath it (folded until opened, as
+    # T3 Code keeps settled threads), and the next file still to view opens.
+    shelf = (f'<div class="row muted" style="margin:4px 8px 0;height:32px;padding:0 8px;gap:8px;border-radius:6px">'
+             f'<span style="font-size:11px;font-weight:600;letter-spacing:.06em">Viewed</span>'
+             f'<span style="flex:1;height:1px;background:var(--line)"></span><span class="monosm">1</span>{icon("chevron", 12)}</div>')
+    side = (f'<aside class="side" style="height:auto;width:248px;padding:14px 0;border:1px solid var(--line);border-radius:10px">'
+            f'<div class="row" style="padding:0 16px 8px;justify-content:space-between"><span class="label">Files</span><span class="monosm muted">1 of 2 viewed</span></div>'
+            f'<div style="padding:0 16px 12px"><div style="height:4px;border-radius:2px;background:var(--well)"><div style="width:50%;height:4px;border-radius:2px;background:var(--added)"></div></div></div>'
+            f'<div class="col" style="padding:0 8px">{file("M", "cache.rs", f"<span class=\"row muted\" style=\"gap:4px;font-size:11px\">{icon("comment", 12)}2</span>", sel=True)}</div>'
+            f'{shelf}<div class="col" style="padding:0 8px">{file("A", "metrics.rs", f"<span class=\"ok\">{icon("check", 13)}</span>", muted=True)}</div></aside>')
+    return (f'<div class="row" style="gap:16px;align-items:flex-start"><div class="cardc grow" style="overflow:hidden">{head(False)}{head(True)}</div>{side}</div>')
 
 def tabs_bar(on, count):
     tab = lambda n, c=None: f'<span class="tab{" on" if n == on else ""}">{n}{f"<span class=count>{c}</span>" if c else ""}</span>'
@@ -109,7 +122,7 @@ def page_extras():
     return (BASE.replace('width:1552px;', 'width:1552px;') +
             f'<div class="row" style="gap:24px;align-items:flex-start;flex-wrap:wrap">'
             f'{panel("Draft comments, a pending reply, the composer", drafts_panel())}'
-            f'<div class="col" style="gap:24px">{panel("Split", split_panel())}{panel("Viewed, then ticked", viewed_panel())}</div>'
+            f'<div class="col" style="gap:24px">{panel("Split", split_panel())}{panel("Viewed, then ticked: the file moves to the Viewed shelf (shown open)", viewed_panel())}</div>'
             f'{panel("Inspector: Checks", checks_panel(), 361)}{panel("Inspector: Conversation", conversation_panel(), 361)}'
             f'{panel("Inspector: provider not connected", not_connected_panel(), 361)}'
             f'{panel("Merge box: ready, then confirming the squash commit", merge_panels())}'
